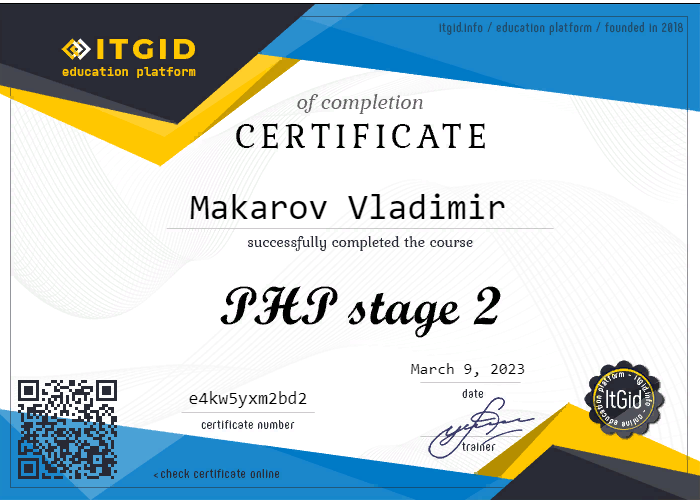
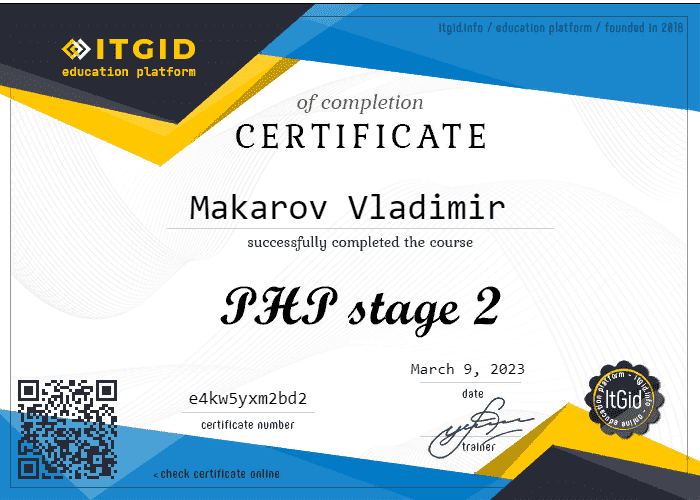
fix: compressed and add photos/set up the diploma slider

diff --git a/index.html b/index.html
@@ -8,6 +8,10 @@
   <title>Makarov Vladimir</title>
   <link rel="shortcut icon" href="logo/icons8-cv-16.png" type="image/x-icon">
   <link rel="stylesheet" href="style/style.css">
+  <link
+      rel="stylesheet"
+      href="https://cdn.jsdelivr.net/npm/swiper@9/swiper-bundle.min.css"
+  />
   <link rel="stylesheet"
     href="https://cdnjs.cloudflare.com/ajax/libs/highlight.js/9.15.8/styles/shades-of-purple.min.css">
   <script
@@ -60,7 +64,7 @@
         <div class="my-info">
           <div class="hero">
 
-            <img class="my-photo" src="img/1-208.jpg" alt="my photo">
+            <img class="my-photo" src="img/my_photo.jpg" alt="my photo">
             <div class="hero-text">
               <h1 data-i18="hero-title">Vladimir Makarov</h1>
               <p>Junior Frontend Developer</p>
@@ -122,7 +126,7 @@
       </section>
 
       <section id="objective" class="section accordion-item">
-        <h2 class="accordion-header" data-i18="purposes">Objective
+        <h2 class="accordion-header" data-i18="purposes">Purposes
           <span class="accordion-arrow">
             <svg width="30" height="20" xmlns="http://www.w3.org/2000/svg" viewBox="0 0 15 10">
               <path fill="#000000" d="M0,0L7.5,5L0,10L1.25,5L0,0Z" />
@@ -131,14 +135,7 @@
           </span>
 
         </h2>
-        <p class="accordion-content">I am seeking a challenging and rewarding position as a
-          Full-stack Developer where I can
-          apply
-          my skills, passion, and drive to contribute to the success of a dynamic team. With a
-          strong
-          foundation in web development and a dedication to continuous learning, I am motivated to
-          deliver
-          high-quality solutions and excel in a professional environment.</p>
+        <p class="accordion-content" data-i18="purposes-text">I strive for creative, demanded and profitable work. The work of a programmer meets all these goals. Faced with various kinds of tasks and find elegant solutions for them, allows you to assert yourself, and financial independence is a huge plus.</p>
       </section>
 
       <section id="motivation" class="section about-me accordion-item highlight-section">
@@ -259,7 +256,7 @@
           <div id="education">
             <h2 data-i18="education">Education</h2>
             <ul>
-              <li>ITMO University (St. Petersburg, Russia)</li>
+              <li class="popup-trigger" data-popup-id="itmo-course">ITMO University (St. Petersburg, Russia)</li>
               <li class="popup-trigger" data-popup-id="js-course-popup">JavaScript2.0 - курс ItGid</li>
               <li class="popup-trigger" data-popup-id="php-course-popup">PHP - stage 2 - курс ItGid</li>
               <li class="popup-trigger" data-popup-id="js-function-course-popup">JavaScript Function - курс ItGid</li>
@@ -284,6 +281,30 @@
               <img src="../makarov-cv/img/diploma/php2.png" alt="PHP - stage 2 - курс ItGid">
               <span class="close-popup" data-popup-id="php-course-popup">Закрыть</span>
             </div>
+
+            <div class="popup" id="itmo-course">
+              <div class="swiper">
+                <div class="swiper-wrapper" id="id_swiper-wrapper">
+                  <div  class="swiper-slide">
+                    <img src="../makarov-cv/img/diploma/itmo-1.jpg" alt="ITMO-course - курс веб разработки">
+                  </div>
+                  <div  class="swiper-slide">
+                    <img src="../makarov-cv/img/diploma/itmo-2.jpg" alt="ITMO-course - курс веб разработки">
+                  </div>
+                  <div  class="swiper-slide">
+                    <img src="../makarov-cv/img/diploma/itmo-3.jpg" alt="ITMO-course - курс веб разработки">
+                  </div>
+                  <div  class="swiper-slide">
+                    <img src="../makarov-cv/img/diploma/itmo-4.jpg" alt="ITMO-course - курс веб разработки">
+                  </div>
+                </div>
+                <div class="swiper-pagination"></div>
+                <div class="swiper-button-prev"></div>
+                <div class="swiper-button-next"></div>
+              </div>
+              <span class="close-popup" data-popup-id="itmo-course">Закрыть</span>
+            </div>
+
 
 
             <div class="overlay"></div>
@@ -409,7 +430,9 @@
       <p>Made by Makarov Vladimir © 2023</p>
     </footer>
   </div>
+  <script src="https://cdn.jsdelivr.net/npm/swiper@9/swiper-bundle.min.js"></script>
   <script src="script/script.js"></script>
+
 </body>
 
 </html>

diff --git a/style/style.css b/style/style.css
@@ -79,7 +79,7 @@ body {
 }
 .header-bg {
   height: 500px;
-  background-image: url(https://images.unsplash.com/photo-1498050108023-c5249f4df085?ixid=MnwxMjA3fDB8MHxwaG90by1wYWdlfHx8fGVufDB8fHx8&ixlib=rb-1.2.1&auto=format&fit=crop&w=1504&q=80);
+  background-image: url(../img/main_background.jpg);
   background-position: center;
   background-size: cover;
   position: relative;
@@ -359,6 +359,19 @@ body.popup-open {
 .popup-trigger:hover {
   color: red;
 }
+
+#id_swiper-wrapper{
+  max-width: 500px;
+  height: auto;
+  object-fit: cover;
+}
+
+#id_swiper-wrapper .swiper-slide img {
+  width: 100%;
+  height: auto;
+  object-fit: cover;
+}
+
 @media (min-width: 780px) {
   .accordion-content {
     padding-left: 150px;

diff --git a/script/script.js b/script/script.js
@@ -316,3 +316,26 @@ function closeAllPopups(overlay) {
     overlay.style.display = 'none';
     document.body.classList.remove('popup-open');
 }
+
+
+// Инициализация Swiper
+document.addEventListener('DOMContentLoaded', function() {
+    // Swiper initialization code here
+    const swiper = new Swiper('.swiper', {
+        // Optional parameters
+        direction: 'horizontal',
+        loop: true,
+
+        // If we need pagination
+        pagination: {
+            el: '.swiper-pagination',
+            clickable: true,
+        },
+
+        // Navigation arrows
+        navigation: {
+            nextEl: '.swiper-button-next',
+            prevEl: '.swiper-button-prev',
+        },
+    });
+});
